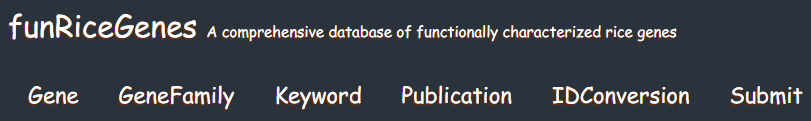
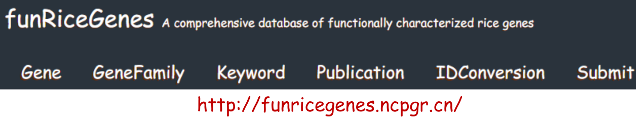
update home page

diff --git a/index.md b/index.md
@@ -13,8 +13,8 @@ __A comprehensive database of functionally characterized rice genes__
 * 4800+ literatrues [[Download↓]](https://funricegenes.github.io/reference.table.txt)  
 * Contact: ywhzau at gmail.com   
 
-
+To interactively query this database, go to the following site!  
 [<img src="https://funricegenes.github.io/images/shiny.png" alt="Dynamic query of this database"  style="width: 600px;"/>](http://funricegenes.ncpgr.cn)   
 
 
-__If you used the data listed above, please cite [our website](https://funricegenes.github.io/) for now.__
+__If you used the data in this database, please cite [our website](https://funricegenes.github.io/) for now.__
